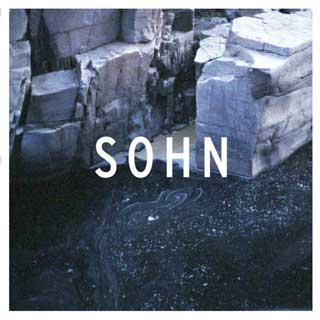
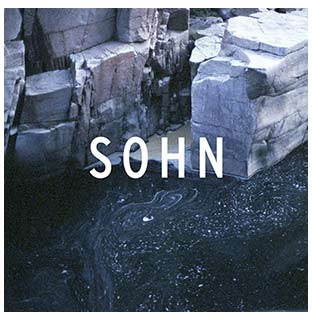
improve image borders

diff --git a/app/styles/main.scss b/app/styles/main.scss
@@ -22,7 +22,7 @@ body {
 #content {
   width: 100%;
   min-width: 320px;
-  max-width: 640px;
+  max-width: 636px;
   margin: 0 auto;
   text-align: center;
   @include hidpi(cover, jpg);
